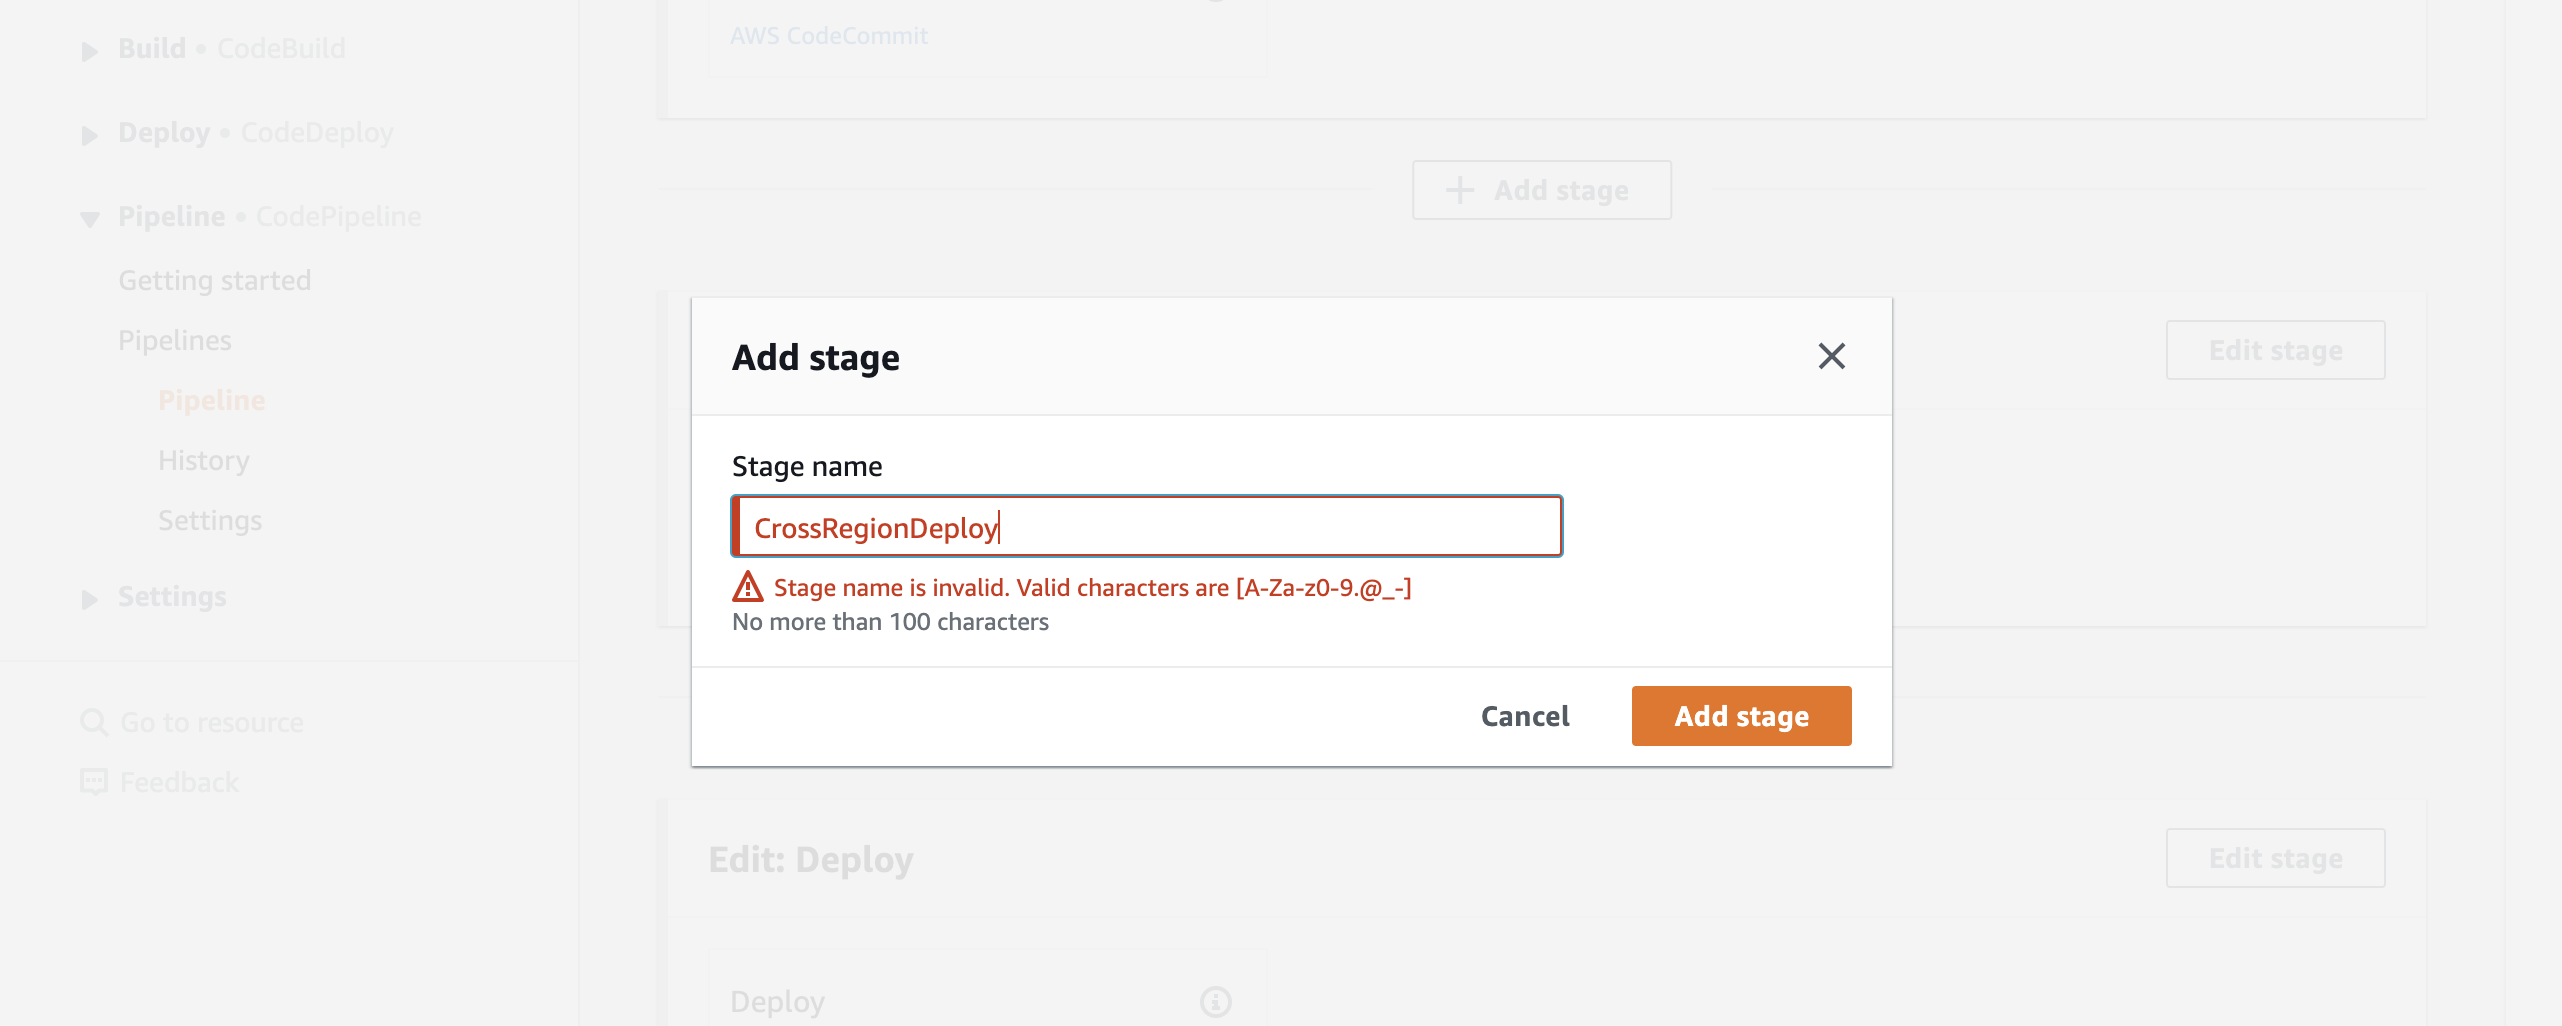
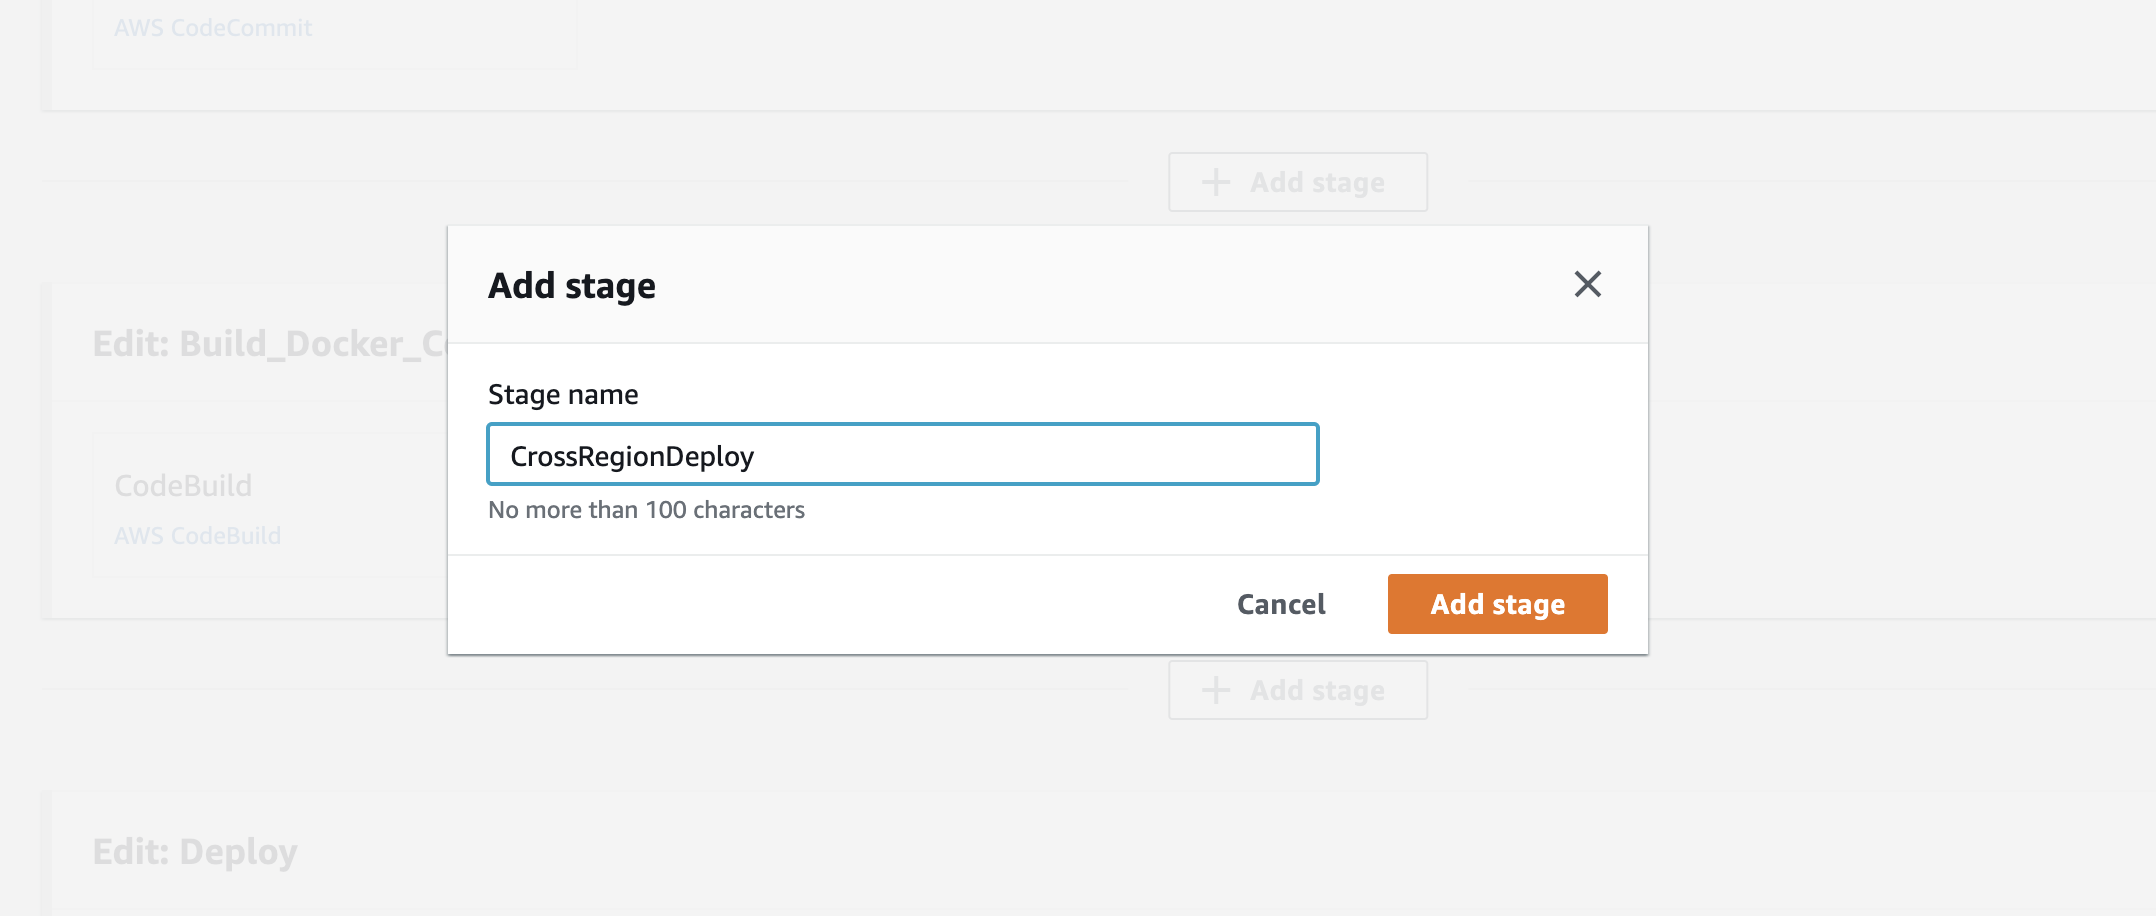
instruction update

diff --git a/lab-3-mr-prep/README.md b/lab-3-mr-prep/README.md
@@ -73,27 +73,22 @@ Navigate to the [CodePipeline console](http://console.aws.amazon.com/codepipelin
 Click on **Edit** and **Add stage** after the Deploy stage.
 
 ![Edit Core {Pipeline}](images/03-codepipeline-edit.png)
-[TODO]: Circle Add Stage
 
 Type in **CrossRegionDeploy** for the stage name.
+
 ![Edit Core {Pipeline}](images/03-codepipeline-cross-region-deploy.png)
-[todo:]update image so it doesn't have errors
 
-Click on **Add Action Group** and enter the following details:
+Next we will configure the stage so that it deploys to ECS in the secondary region. Click on **Edit Stage** and then **Add Action**. Enter in the following details in the **Edit Action** popup:
 
-Action name: **CrossRegionDeploy**
-
-Action provider: **Amazon ECS**
-
-Region: **Choose the secondary region you deployed into** - By default, this should be US East - (N. Virginia)
-
-Input artifacts: **BuildArtifact**
-
-Cluster name: **Choose the cluster that was created for you. It will start with Cluster-**
-
-Service name: **Select the service that includes "Core"**
-
-Image definitions file: **imagedefinitions_secondary.json** - The value of this will depend on what you output in your buildspec. Our default is imagedefinitions_secondary.json.
+**Edit Action**:
+* Click on **Add Action Group** and enter the following details:
+* Action name: **CrossRegionDeploy**
+* Action provider: **Amazon ECS**
+* Region: **Choose the secondary region you deployed into** - By default, this should be US East - (N. Virginia)
+* Input artifacts: **BuildArtifact**
+* Cluster name: **Choose the cluster that was created for you. It will start with Cluster-**
+* Service name: **Select the service that includes "Core"**
+* Image definitions file: **imagedefinitions_secondary.json** - The value of this will depend on what you output in your buildspec. Our default is imagedefinitions_secondary.json.
 
 ![Create Action](images/03-cp-createactiongroup.png)
 
@@ -101,7 +96,9 @@ Click **Done** and then **Save** at the top of the screen. Click through prompts
 
 **Do this again for the Like Service**
 
-### Trigger deployment
+![Do it again](images/03-codepipeline-like.png)
+
+### Update build scripts to upload docker images to both regions
 
 As part of the infrastructure automation, we gave you the application for both **core** and **like** services. You will now have to manually update the buildspec_prod.yml file to upload the container image to another region.
 
@@ -132,6 +129,8 @@ Open the two files and update these variables:
 * SECONDARY_LIKE_REPO_URI in the Like service buildspec_prod.yml
 </pre>
 </details>
+
+### Trigger deployment again
 
 Finally, add all the files to both repos and trigger deployments:
 
